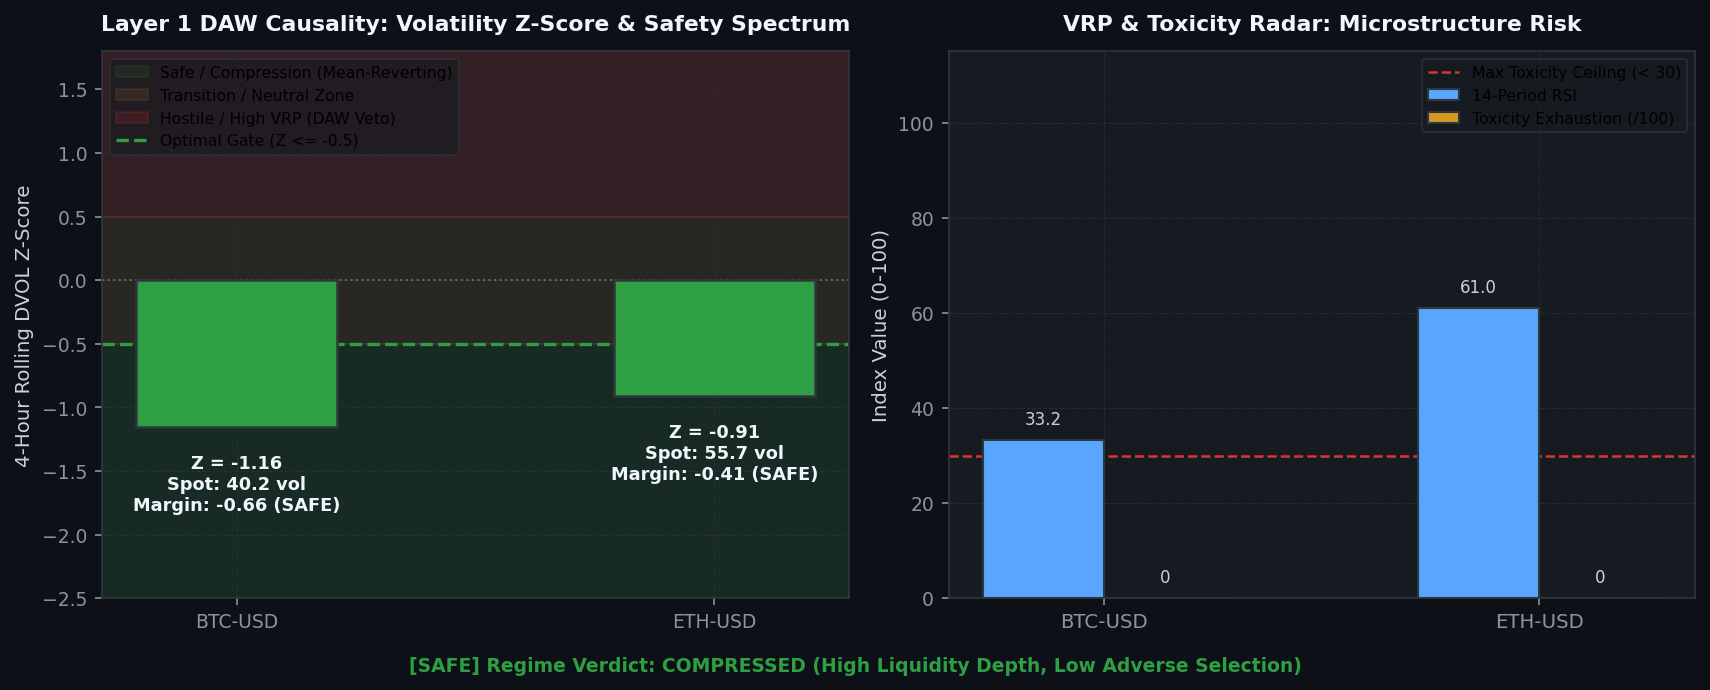
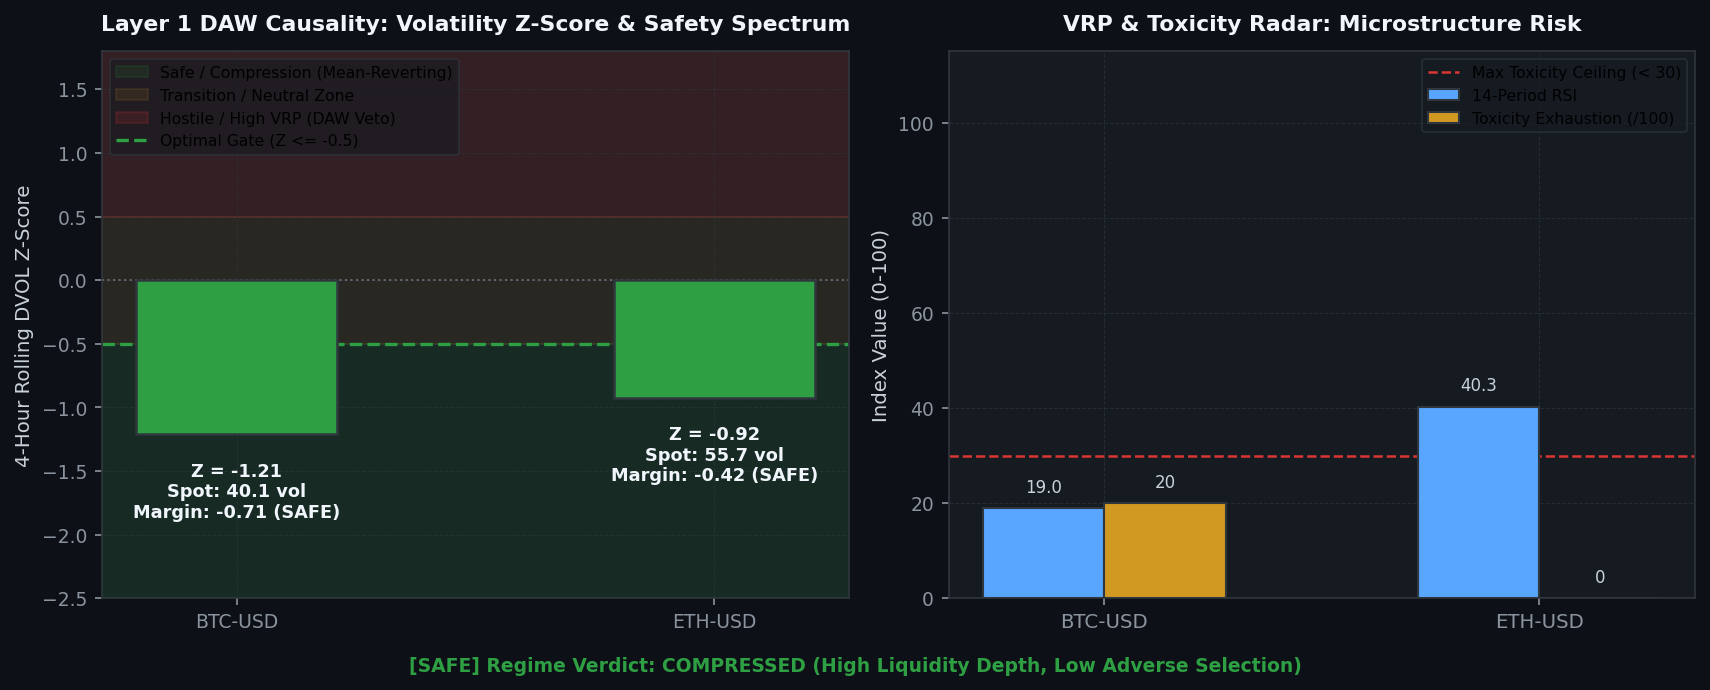
[coinbase] Hourly Status & Visual Intelligence Update: 2026-08-26 13:00:18

diff --git a/coinbase/data/hourly_status_report.md b/coinbase/data/hourly_status_report.md
@@ -3,7 +3,7 @@ layout: default
 ---
 
 # 🛡 Unified Trading System Hourly Status & Visual Intelligence
-> **Report Generated**: `2026-08-26 12:42:24 PM PDT (2026-08-26 19:42:24 UTC)`  
+> **Report Generated**: `2026-08-26 01:00:01 PM PDT (2026-08-26 20:00:01 UTC)`  
 > **System Health**: **🟡 DEGRADED / RESTRICTED** | **Win Rate**: `0.0%` | **Completed Trades**: `0`
 
 
@@ -15,13 +15,13 @@ Real-time Deribit implied volatility (DVOL) proxy tracking against mathematicall
 
 | Symbol | Proxy Oracle | Live Z-Score | Optimal Limit (YSP) | Safety Margin | Live VRP | Optimal VRP (YSP) | DAW Safety Verdict |
 | :--- | :--- | :--- | :--- | :--- | :--- | :--- | :--- |
-| `AVAX-USD` | DVOL_BTC | **-1.15** | **-0.50** | **-0.65** | **+5.24** | 5.0 | 🔴 DAW VETOED |
-| `ETH-USD` | DVOL_ETH | **-0.91** | **-0.50** | **-0.41** | **+20.75** | 5.0 | 🔴 DAW VETOED |
-| `ADA-USD` | DVOL_BTC | **-1.15** | **-0.50** | **-0.65** | **+5.24** | 5.0 | 🔴 DAW VETOED |
-| `DOGE-USD` | DVOL_BTC | **-1.15** | **-0.50** | **-0.65** | **+5.24** | 5.0 | 🔴 DAW VETOED |
-| `BTC-USD` | DVOL_BTC | **-1.15** | **-0.50** | **-0.65** | **+5.24** | 5.0 | 🔴 DAW VETOED |
-| `LINK-USD` | DVOL_BTC | **-1.15** | **-0.50** | **-0.65** | **+5.24** | 5.0 | 🔴 DAW VETOED |
-| `SOL-USD` | DVOL_BTC | **-1.15** | **-0.50** | **-0.65** | **+5.24** | 5.0 | 🔴 DAW VETOED |
+| `AVAX-USD` | DVOL_BTC | **-1.21** | **-0.50** | **-0.71** | **+5.17** | 5.0 | 🔴 DAW VETOED |
+| `ETH-USD` | DVOL_ETH | **-0.92** | **-0.50** | **-0.42** | **+20.72** | 5.0 | 🔴 DAW VETOED |
+| `ADA-USD` | DVOL_BTC | **-1.21** | **-0.50** | **-0.71** | **+5.17** | 5.0 | 🔴 DAW VETOED |
+| `DOGE-USD` | DVOL_BTC | **-1.21** | **-0.50** | **-0.71** | **+5.16** | 5.0 | 🔴 DAW VETOED |
+| `BTC-USD` | DVOL_BTC | **-1.21** | **-0.50** | **-0.71** | **+5.16** | 5.0 | 🔴 DAW VETOED |
+| `LINK-USD` | DVOL_BTC | **-1.21** | **-0.50** | **-0.71** | **+5.16** | 5.0 | 🔴 DAW VETOED |
+| `SOL-USD` | DVOL_BTC | **-1.21** | **-0.50** | **-0.71** | **+5.16** | 5.0 | 🔴 DAW VETOED |
 
 
 
@@ -37,16 +37,16 @@ We hereby certify that the mission-critical algorithmic data assets uploaded by 
 
 | Status | Data Asset | Freshness / State | Details / Timestamp |
 | :---: | :--- | :--- | :--- |
-| ✅ | **Go-List JSON** | Fresh (1.97h old) | 08-26 10:44 |
-| ✅ | **TimesFM Forecasts** | Fresh (4.65h old) | 08-26 08:03 |
-| ❌ | **Holding Times config** | STALE! (123.7h old) | Limit 65.7h |
-| ✅ | **BTC DVOL Cache** | Fresh (0.00h old) | 08-26 12:42 |
-| ✅ | **ETH DVOL Cache** | Fresh (0.01h old) | 08-26 12:42 |
-| ✅ | **Live Trading Telemetry** | Fresh (0.00h old) | 08-26 12:42 |
+| ✅ | **Go-List JSON** | Fresh (2.26h old) | 08-26 10:44 |
+| ✅ | **TimesFM Forecasts** | Fresh (0.15h old) | 08-26 12:51 |
+| ❌ | **Holding Times config** | STALE! (124.0h old) | Limit 66.0h |
+| ✅ | **BTC DVOL Cache** | Fresh (0.00h old) | 08-26 13:00 |
+| ✅ | **ETH DVOL Cache** | Fresh (0.00h old) | 08-26 13:00 |
+| ✅ | **Live Trading Telemetry** | Fresh (0.00h old) | 08-26 12:59 |
 
 <br>
 
-> **Utilization Certification**: ✅ **CERTIFIED.** The Guardian Watchdog is ONLINE and EC2 traders are actively querying the freshest MLOps data artifacts (Found 1021 recent read events).
+> **Utilization Certification**: ✅ **CERTIFIED.** The Guardian Watchdog is ONLINE and EC2 traders are actively querying the freshest MLOps data artifacts (Found 1369 recent read events).
 
 
 ---
@@ -55,7 +55,7 @@ Layer-by-layer tick evaluation waterfall and asset-specific performance tracking
 
 | Funnel Filter Layer | Total Rejections | % of Rejections |
 | :--- | :--- | :--- |
-| Tier 1: Macro Volatility Tensor Gate (Omega_macro) | `1,019` | **100.0%** |
+| Tier 1: Macro Volatility Tensor Gate (Omega_macro) | `1,368` | **100.0%** |
 | Tier 2: Unified Transport & Directional Engine | `0` | **0.0%** |
 | Tier 3: Continuous Hawkes-SFGK Pricer (HAS-Pricer) | `0` | **0.0%** |
 | System: Asset Cooldown Active | `0` | **0.0%** |
@@ -94,14 +94,14 @@ Live balance sheet and open maker liquidity positions from Coinbase CDP.
 ## 4. 🤖 Foundation Model MLOps & Pipeline Orchestration
 Weekly Algorithmic Mega Cap selection, Zero-shot multi-step forward return forecasts, and VSTEF parameter grid search status.
 
-- **TimesFM Forecast DB**: 🟢 Updated 4.7h ago (2026-08-26 08:03 AM PDT)
+- **TimesFM Forecast DB**: 🟢 Updated 0.1h ago (2026-08-26 12:51 PM PDT)
 - **Last Weekly VSTEF Optimization**: `2026-08-05 09:22:38 AM PDT`
-- **Next Scheduled VSTEF Run**: `2026-08-30 07:00:00 PM PDT (Monday 02:00 UTC)` (Countdown: **102.3h (4d 6h 17m)**)
+- **Next Scheduled VSTEF Run**: `2026-08-30 07:00:00 PM PDT (Monday 02:00 UTC)` (Countdown: **102.0h (4d 5h 59m)**)
 - **Promoted Parameter Gates**: $Z_{DVOL} \le -0.5$ | Holding Horizon $= 12\text{h}$
 
 ### Algorithmic Mega Cap Selection
 - **Last Run (Confirmation)**: `2026-08-26 10:44:36 AM PDT`
-- **Next Scheduled Run**: `2026-08-30 06:00:00 PM PDT (Monday 01:00 UTC)` (Countdown: **101.3h (4d 5h 17m)**)
+- **Next Scheduled Run**: `2026-08-30 06:00:00 PM PDT (Monday 01:00 UTC)` (Countdown: **101.0h (4d 4h 59m)**)
 - **Selected Mega Cap Universe**: `BTC, BCH, AVAX, ETH, ALGO, ADA, LTC, DOGE, AAVE, LINK, DOT, HBAR`
 
 
@@ -115,20 +115,20 @@ Visualizing the impact of the VSTEF (Volatility-Synchronized Stop-Tightening Exe
 ## 5. 🖥 Multi-Node Infrastructure & Watchdog Matrix
 ```text
 ================================================================================
-   🛡  SFGK FUNNEL GUARDIAN WATCHDOG (HFT ONLY) |  07:42:24 PM
-   CPU:  26.8%  |  MEM:   6.2% (14.5GB / 15.4GB Free)
+   🛡  SFGK FUNNEL GUARDIAN WATCHDOG (HFT ONLY) |  08:00:01 PM
+   CPU:  22.4%  |  MEM:   6.1% (14.5GB / 15.4GB Free)
 ================================================================================
 SERVICE              | PID      | STATUS          | RESTARTS | INFO
 --------------------------------------------------------------------------------
-L3 Consumer          | 685429   | RUNNING         | -        | Continuous Websocket Feed
-MAO Daemon           | 685459   | RUNNING         | -        | Oracle Yield Analysis
-U/U Farmer           | 685461   | RUNNING         | -        | Volume Farmer
-Trader AVAX-USD      | 700166   | COOL-DOWN       | 50       | Next run in 4.8s
-Trader ETH-USD       | 700344   | COOL-DOWN       | 51       | Next run in 15.0s
-Trader ADA-USD       | 700345   | COOL-DOWN       | 50       | Next run in 15.0s
-Trader DOGE-USD      | 700369   | RUNNING         | 51       | Evaluating Funnel/Polling Order
-Trader BTC-USD       | 700346   | COOL-DOWN       | 51       | Next run in 15.0s
-Trader LINK-USD      | 700167   | COOL-DOWN       | 50       | Next run in 4.8s
+L3 Consumer          | 708678   | RUNNING         | -        | Continuous Websocket Feed
+MAO Daemon           | 708776   | RUNNING         | -        | Oracle Yield Analysis
+Stable Farmer        | 708778   | RUNNING         | -        | Volume Farmer
+Trader AVAX-USD      | 715985   | RUNNING         | 25       | Evaluating Funnel/Polling Order
+Trader ETH-USD       | 715921   | COOL-DOWN       | 25       | Next run in 14.9s
+Trader ADA-USD       | 715986   | RUNNING         | 25       | Evaluating Funnel/Polling Order
+Trader DOGE-USD      | 715846   | COOL-DOWN       | 24       | Next run in 14.9s
+Trader BTC-USD       | 715922   | COOL-DOWN       | 25       | Next run in 14.9s
+Trader LINK-USD      | 715747   | COOL-DOWN       | 24       | Next run in 4.8s
 ```
 
 ---

diff --git a/coinbase/data/visual_intelligence.md b/coinbase/data/visual_intelligence.md
@@ -4,7 +4,7 @@ title: Visual Intelligence Gallery
 ---
 
 # 📈 Visual Intelligence Gallery
-> **Generated:** `2026-08-26 12:42:41`
+> **Generated:** `2026-08-26 13:00:18`
 > **[Return to Main Status Report](./hourly_status_report.md)**
 
 This page visualizes the internal states, market profiles, and decision criteria of the active **3-Tier Fused Decision Engine** across all layers.
